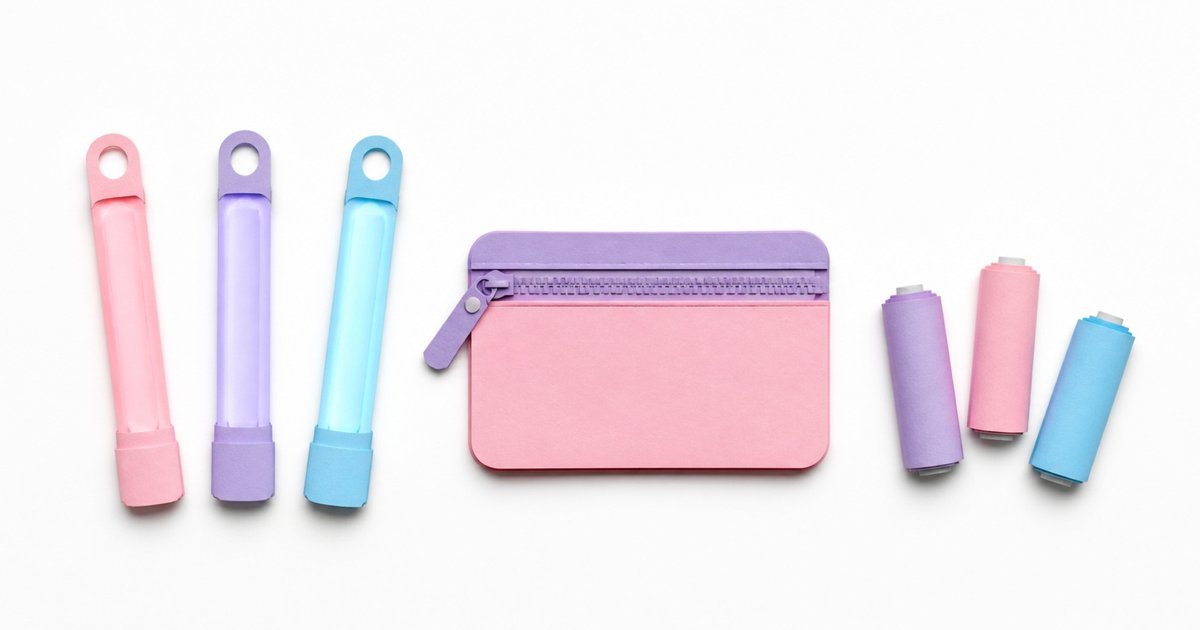
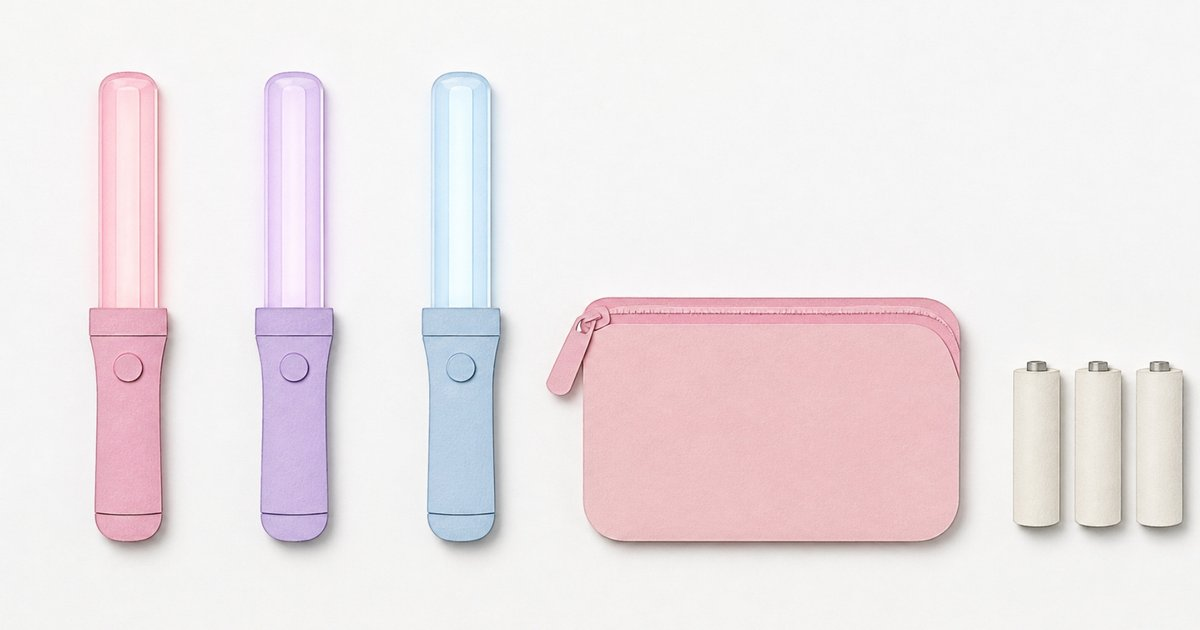
ペンライトの選び方：点検の指摘を直した（出典の確かめ・図の説明・絵の作り直し） (#28)
Claude-Session: https://claude.ai/code/session_015wi4GfN5CMiZ8ukuf7ERzH

diff --git a/src/yomimono/penlight.html b/src/yomimono/penlight.html
@@ -17,7 +17,7 @@
 </tbody>
 </table>
 <p>色の数が多いと、使う色にたどりつくまでに何度も押すことになります。大閃光ブレード300の商品ページでは、メモリーの機能で24色のうち使う色だけを選んで並べられるとされています。キングブレード X10 V も、メモリーのパターンを2種類残せると書かれています。</p>
-<p>ルイファン・ジャパンの X10 V には、スマートフォンのアプリから色を作る機能もあります。公演で使う色が決まっているときは、その色が入っているかを商品ページの色の一覧で確かめます。</p>
+<p>X10 V の商品ページでは、Bluetooth でつないで光る色を作れるとされています。公演で使う色が決まっているときは、その色が入っているかを商品ページの色の一覧で確かめます。</p>
 
 <h2 id="denchi">電池の種類と点く時間</h2>
 <p>調べた機種では、電池は単4形の乾電池3本のものが多く、ほかにボタン電池を使う小さなものと、本体を充電する形のものがありました。点く時間は、どれもメーカーの表示に幅があります。</p>
@@ -32,7 +32,7 @@
 </tbody>
 </table>
 <!--fig:penlight-jikan-->
-<p>大閃光ブレードの商品ページでは、点く時間は使う色によってちがうとされています。キングブレード MAX II は、明るさを4段階に変えられ、点く時間も使う状況で変わると書かれています。ECOモードは、明るさをおさえて長く点けるためのモードです。</p>
+<p>大閃光ブレードの商品ページでは、点く時間は使う色によってちがうとされています。キングブレード MAX II は、明るさを4段階に変えられ、点く時間も使う状況で変わると書かれています。メーカーの表示では、ECOモードは通常より長く点きます。</p>
 <p>電池がついてくる機種でも、ルイファン・ジャパンとペンライトストアの商品ページでは、ついてくる電池はテスト用とされています。公演で使う電池は、別に用意しておきます。</p>
 <p>充電式の電池を使えるかは、機種で分かれます。キングブレード MAX II はエネループを使えると書かれています。2025年のドームツアーの公式ペンライトは、単4のアルカリ乾電池を使い、マンガン電池は使わないとされていました。使う電池の種類は、説明書や商品ページに合わせます。</p>
 <!--shelf:alkaline-->
@@ -67,11 +67,11 @@
 <tr><td>2025年6月の舞台</td><td>市販のサイリウムと長いものは使えない</td><td>頭より上にあげない</td></tr>
 <tr><td>2025年のドームツアー</td><td>公式の光るグッズだけ</td><td>会場の演出に合わせて光る</td></tr>
 <tr><td>2026年1月更新の音楽会社の案内</td><td>30cm以上のもの・改造品・つないだものは使えない</td><td>片手に4本以上持たない。振り回さない</td></tr>
-<tr><td>2026年9月の事務所の案内</td><td>27cmをこえるもの・改造品・自作品は使えない</td><td>片手に複数本持たない。振り回さない</td></tr>
+<tr><td>2026年9月の記事で紹介された案内</td><td>27cmをこえるもの・改造品・自作品は使えない</td><td>片手に複数本持たない。振り回さない</td></tr>
 </tbody>
 </table>
 <!--fig:penlight-nagasa-->
-<p>調べた機種の全長は、多くが250mmでした。30cm以上を使えないとする例にも、27cmをこえるものを使えないとする例にもおさまります。2026年9月の案内では、改造していない過去の公式商品は27cmをこえても使えるとされていました。</p>
+<p>調べた機種の全長は、多くが250mmでした。30cm以上を使えないとする例にも、27cmをこえるものを使えないとする例にもおさまります。2026年9月の記事で紹介された案内では、改造していない過去の公式商品は27cmをこえても使えるとされていました。</p>
 <p>改造したものは、調べた案内の多くで使えないとされていました。公式グッズのペンライトの注意書きにも、分解や改造をしないよう書かれています。決まりに合わないものを使ったときは、その場で回収する、退場してもらうと書いている案内もあります。</p>
 
 <h2 id="oshiiro">推しの色に合わせる</h2>

diff --git a/src/yomimono/fig/penlight-jikan.html b/src/yomimono/fig/penlight-jikan.html
@@ -1,5 +1,5 @@
-<figure class="fg fg-jikan">
-<svg viewBox="-4 -4 608 336" role="img" aria-label="機種とモードごとの点く時間の表示の幅。通常のモードは3〜6時間ほど、ECOモードは6〜16時間ほどまで、表示に幅がある"><path class="fg-tick" d="M0 320H600M0 240H600M0 160H600M0 80H600M0 0H600"/><rect class="fg-s" x="20" y="240" width="60" height="80"/><rect class="fg-dash" x="20" y="200" width="60" height="40"/><rect class="fg-s" x="120" y="240" width="60" height="80"/><rect class="fg-dash" x="120" y="200" width="60" height="40"/><rect class="fg-l" x="220" y="120" width="60" height="200"/><rect class="fg-dash" x="220" y="20" width="60" height="100"/><rect class="fg-s" x="320" y="260" width="60" height="60"/><rect class="fg-dash" x="320" y="240" width="60" height="20"/><rect class="fg-l" x="420" y="200" width="60" height="120"/><rect class="fg-dash" x="420" y="0" width="60" height="200"/><rect class="fg-s" x="520" y="270" width="60" height="50"/><rect class="fg-dash" x="520" y="120" width="60" height="150"/></svg>
+<figure class="fg">
+<svg viewBox="-4 -4 608 336" role="img" aria-label="機種とモードごとの点く時間の表示の幅。どの機種も表示の時間に幅があり、短いほうは2.5〜10時間、長いほうは4〜16時間"><path class="fg-tick" d="M0 320H600M0 240H600M0 160H600M0 80H600M0 0H600"/><rect class="fg-s" x="20" y="240" width="60" height="80"/><rect class="fg-dash" x="20" y="200" width="60" height="40"/><rect class="fg-s" x="120" y="240" width="60" height="80"/><rect class="fg-dash" x="120" y="200" width="60" height="40"/><rect class="fg-l" x="220" y="120" width="60" height="200"/><rect class="fg-dash" x="220" y="20" width="60" height="100"/><rect class="fg-s" x="320" y="260" width="60" height="60"/><rect class="fg-dash" x="320" y="240" width="60" height="20"/><rect class="fg-l" x="420" y="200" width="60" height="120"/><rect class="fg-dash" x="420" y="0" width="60" height="200"/><rect class="fg-s" x="520" y="270" width="60" height="50"/><rect class="fg-dash" x="520" y="120" width="60" height="150"/></svg>
 <ol class="fg-labels" style="grid-template-columns:repeat(6,1fr)"><li>ブレード300<br>約4〜6時間</li><li>Easy<br>約4〜6時間</li><li>Easy ECO<br>約10〜15時間</li><li>Charge<br>約3〜4時間</li><li>Charge ECO<br>約6〜16時間</li><li>MAX II<br>約2.5〜10時間</li></ol>
 <figcaption>メーカーの表示の点く時間（横の線は4時間ごと）。ぬった所が表示の短いほう、点線の所が長いほうまでの幅です</figcaption>
 </figure>

diff --git a/src/yomimono/fig/penlight-case.html b/src/yomimono/fig/penlight-case.html
@@ -1,5 +1,5 @@
 <figure class="fg fg-2">
-<div><svg viewBox="-4 -4 208 318" role="img" aria-label="縦30cm・横19cmのケースに、全長25cmのペンライトが2本入っている"><rect class="fg-film" x="0" y="0" width="190" height="300" rx="6"/><rect class="fg-w" x="50" y="175" width="30" height="100" rx="6"/><rect class="fg-p" x="53" y="25" width="24" height="150" rx="10"/><rect class="fg-w" x="110" y="175" width="30" height="100" rx="6"/><rect class="fg-s" x="113" y="25" width="24" height="150" rx="10"/></svg><p>30×19cmのケース</p></div>
-<div><svg viewBox="-4 -4 208 318" role="img" aria-label="高さ30cm・幅15.5cmのケースに、全長25cmのペンライトが1本入っている"><rect class="fg-film" x="17" y="0" width="155" height="300" rx="6"/><rect class="fg-w" x="80" y="175" width="30" height="100" rx="6"/><rect class="fg-l" x="83" y="25" width="24" height="150" rx="10"/></svg><p>高さ約30cm・幅約15.5cmのケース</p></div>
+<div><svg viewBox="-4 -4 208 318" role="img" aria-label="縦30cm・横19cmのケースと、全長25cmのペンライト2本を同じ縮尺でならべた"><rect class="fg-film" x="0" y="0" width="190" height="300" rx="6"/><rect class="fg-w" x="50" y="175" width="30" height="100" rx="6"/><rect class="fg-p" x="53" y="25" width="24" height="150" rx="10"/><rect class="fg-w" x="110" y="175" width="30" height="100" rx="6"/><rect class="fg-s" x="113" y="25" width="24" height="150" rx="10"/></svg><p>30×19cmのケース</p></div>
+<div><svg viewBox="-4 -4 208 318" role="img" aria-label="高さ30cm・幅15.5cmのケースと、全長25cmのペンライト1本を同じ縮尺でならべた"><rect class="fg-film" x="17" y="0" width="155" height="300" rx="6"/><rect class="fg-w" x="80" y="175" width="30" height="100" rx="6"/><rect class="fg-l" x="83" y="25" width="24" height="150" rx="10"/></svg><p>高さ約30cm・幅約15.5cmのケース</p></div>
 <figcaption>ケースの大きさと、全長250mmのペンライト（同じ縮尺）。入る本数はケースの商品ページで確かめます</figcaption>
 </figure>

diff --git a/src/yomimono/fig/penlight-nagasa.html b/src/yomimono/fig/penlight-nagasa.html
@@ -1,4 +1,4 @@
-<figure class="fg fg-nagasa">
+<figure class="fg">
 <svg viewBox="-4 -4 608 316" role="img" aria-label="全長167mm・200mm・250mmのペンライトと、27cmと30cmの長さの線。どのペンライトも2本の線より短い"><path class="fg-dash" d="M0 30H600M0 0H600"/><rect class="fg-w" x="80" y="238" width="40" height="62" rx="8"/><rect class="fg-p" x="84" y="133" width="32" height="105" rx="14"/><rect class="fg-w" x="280" y="200" width="40" height="100" rx="8"/><rect class="fg-l" x="284" y="100" width="32" height="100" rx="14"/><rect class="fg-w" x="480" y="200" width="40" height="100" rx="8"/><rect class="fg-s" x="484" y="50" width="32" height="150" rx="14"/></svg>
 <ol class="fg-labels" style="grid-template-columns:repeat(3,1fr)"><li>iLite<br>167mm</li><li>スーパーチューブ<br>約200mm</li><li>多くの機種<br>250mm</li></ol>
 <figcaption>ペンライトの全長と、公演の案内にあった長さの決まりの例（同じ縮尺）。上の点線が30cm、その下が27cmです</figcaption>
